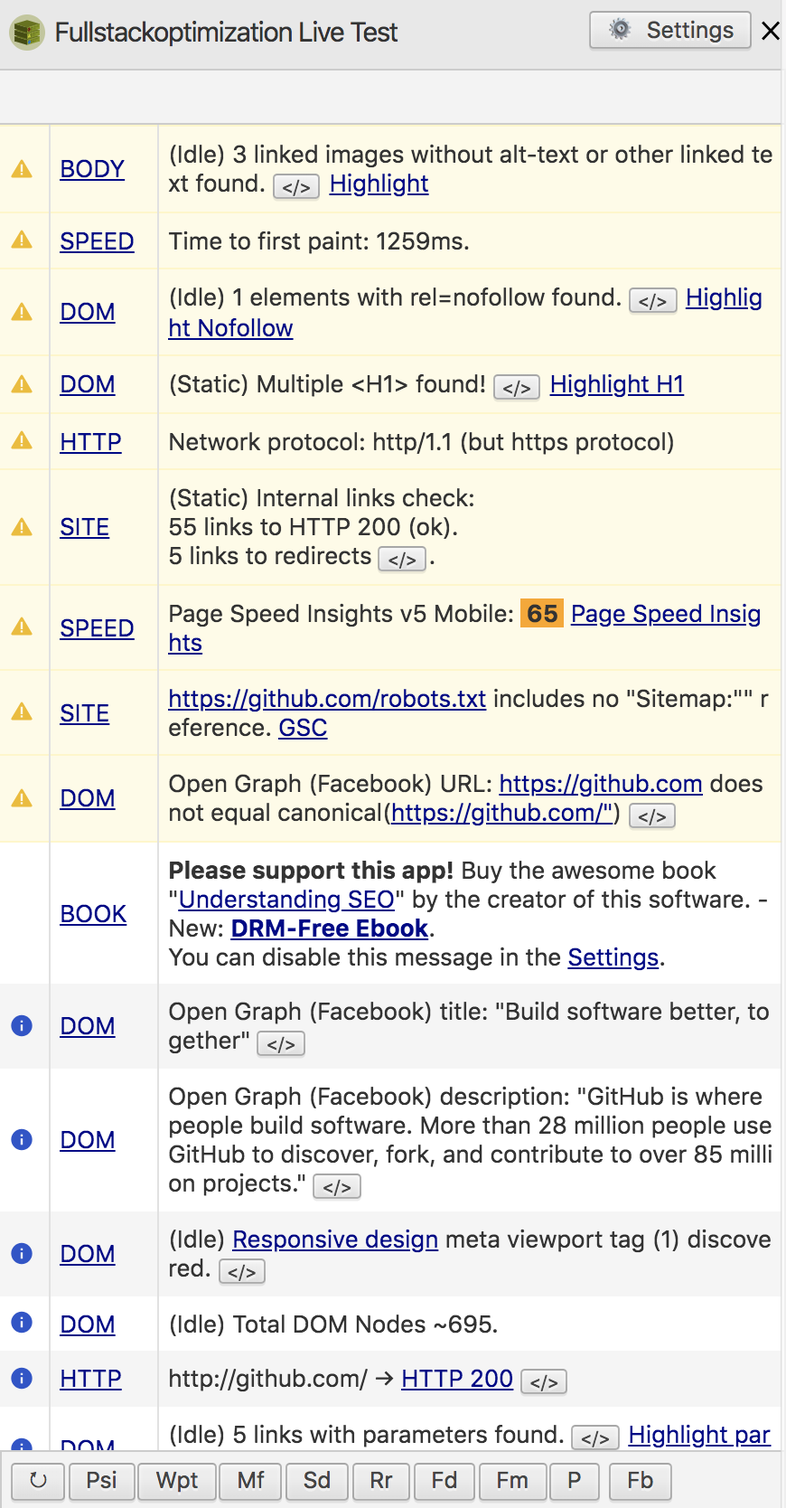
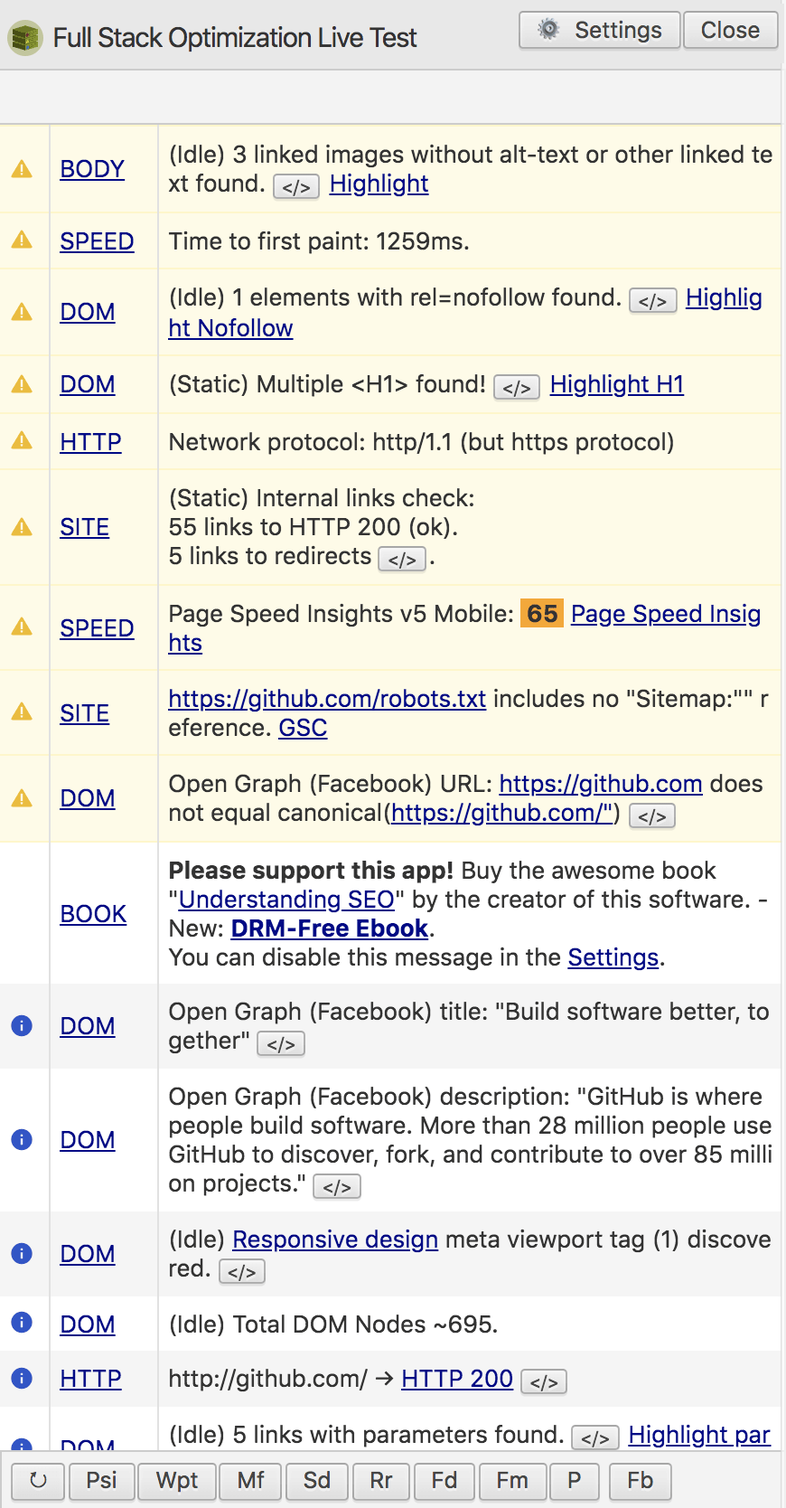
promo updates

Changed region(s): [[0.0, 0.0, 0.5276, 0.0312], [0.6828, 0.0, 0.9931, 0.0312]]

diff --git a/src/javascripts/components/Rules/Rules.js b/src/javascripts/components/Rules/Rules.js
@@ -126,10 +126,10 @@ export default class Rules extends Component {
         <header className="Header Section">
           <div className="Wrapper u-cf">
             <svg className="ic ic--rules u-floatLeft" viewBox="0 0 100 100"><clipPath id="a"><path d="m56.8 37 .9.4c-.3-.2-.7-.3-1.1-.3l-.9-.4c.4.1.8.2 1.1.3z"/></clipPath><clipPath id="b"><path d="m53.6 46.5-.9-.5c-1-.5-1.7-1.7-1.7-3.3 0-2.6 1.6-5.1 3.7-5.8.3-.1.6-.1.9-.1l.9.4c-.3 0-.6 0-.9.1-2.1.6-3.7 3.2-3.7 5.8 0 1.6.7 2.9 1.7 3.4z"/></clipPath><clipPath id="c"><path d="m57.3 71.5.9.3c-.2-.1-.5-.1-.8-.1l-.9-.3c.3 0 .6 0 .8.1z"/></clipPath><clipPath id="d"><path d="m56.2 75.1-.9-.3h.2l.9.3c-.1 0-.1 0-.2 0z"/></clipPath><clipPath id="e"><path d="m55.7 73.6.9.3c.1 0 .2.2.2.4 0 .3-.2.7-.5.8l-.9-.3c.3-.1.5-.4.5-.8.1-.2 0-.4-.2-.4z"/></clipPath><clipPath id="f"><path d="m56.1 75.1-.9-.3h.1z"/></clipPath><clipPath id="g"><path d="m54.5 81.2-.9-.3c-1.1-.4-1.9-1.6-1.8-3.3 0-2.6 1.7-5.2 3.7-6 .4-.1.8-.2 1.1-.2l.9.3c-.3 0-.7.1-1.1.2-2.1.8-3.7 3.5-3.7 6-.1 1.8.7 3 1.8 3.3z"/></clipPath><clipPath id="h"><path d="m56.2 62.1-.9-.3c.1-.2.1-.3.2-.4l.9.3c0 .1-.1.2-.2.4z"/></clipPath><clipPath id="i"><path d="m55.9 62.4-.9-.3c.1 0 .3-.2.4-.3l.9.3c-.2.1-.3.2-.4.3z"/></clipPath><clipPath id="j"><path d="m55.2 61 .9.3s.1 0 .1.1l-1-.4c.1.1.1 0 0 0z"/></clipPath><clipPath id="k"><path d="m55.7 62.4-.9-.3h.1l.9.3s0 0-.1 0z"/></clipPath><clipPath id="l"><path d="m55.6 62.4-.9-.3h.1l.9.3z"/></clipPath><clipPath id="m"><path d="m55.5 54.6.9.3h-.1c-.3 0-.6.2-.7.6l-.9-.3c.1-.3.5-.6.7-.6z"/></clipPath><clipPath id="n"><path d="m52.4 63.9-.9-.3c-.2-.1-.4-.4-.2-.8l.9.3c-.2.4 0 .7.2.8z"/></clipPath><circle cx="50" cy="50" fill="#c1c799" r="50"/><path d="m84.7 74.1-34.7 10.3v-13.7l34.7-10.3z" fill="#859900"/><path d="m50 84.4-34.7-10.3v-13.7l34.7 10.3z" fill="#434d00"/><path d="m50 70.7-34.7-10.3 34.7-10.4 34.7 10.4z" fill="#647300"/><path d="m84.7 56.9-34.7 10.3v-13.8l34.7-10.3z" fill="#859900"/><path d="m50 67.2-34.7-10.3v-13.8l34.7 10.3z" fill="#434d00"/><path d="m50 53.4-34.7-10.3 34.7-10.3 34.7 10.3z" fill="#647300"/><path d="m84.7 39.6-34.7 10.4v-13.8l34.7-10.3z" fill="#859900"/><path d="m50 50-34.7-10.4v-13.7l34.7 10.3z" fill="#434d00"/><path d="m50 36.2-34.7-10.3 34.7-10.3 34.7 10.3z" fill="#647300"/><g enable-background="new"><g fill="#4d0008"><path d="m56.7 44.1-.8-.4.9-1.5.9.4z"/><path d="m56.6 41.6-.9-.5 1.1-1.7.9.5z"/><path d="m57.7 42.6-.9-.4-1.1-1.1.9.5z"/><path d="m54.5 44.8-.8-.5 1.1-1.7.8.5z"/><path d="m57.7 39.9-.9-.5-.9-.9.8.5z"/></g><g clip-path="url(#a)" enable-background="new"><path d="m56.6 37.2-.9-.4h.4l.9.4c-.1 0-.3 0-.4 0" fill="#590009"/><path d="m57 37.2-.9-.4c.1 0 .3.1.4.1l.9.4c-.1 0-.3 0-.4-.1" fill="#5c0009"/><path d="m57.4 37.3-.9-.4c.1 0 .2.1.3.1l.9.4c-.1 0-.2 0-.3-.1" fill="#5f0009"/></g><path d="m55.6 40.7-.8-.5-1.1-1 .8.5z" fill="#4d0008"/><g clip-path="url(#b)" enable-background="new"><path d="m53.6 46.5-.9-.5c-1-.5-1.7-1.7-1.7-3.3 0-2.5 1.5-5 3.5-5.7l.9.4c-2 .7-3.5 3.2-3.5 5.7 0 1.6.7 2.9 1.7 3.4" fill="#500008"/><path d="m55.5 37.4-.9-.4c.1 0 .1 0 .2-.1.2 0 .3-.1.4-.1l.9.4c-.1 0-.3.1-.4.1-.1.1-.2.1-.2.1" fill="#530008"/><path d="m56.1 37.2-.9-.4h.5l.9.4c-.2 0-.3 0-.5 0" fill="#560008"/><path d="m56.6 37.2-.9-.4z" fill="#590009"/></g><path d="m56.6 37.2c1.6 0 2.7 1.4 2.7 3.6 0 2.6-1.6 5.1-3.7 5.8-.3.1-.6.1-.9.1-1.6 0-2.8-1.4-2.8-3.6 0-2.6 1.6-5.1 3.7-5.8.4 0 .7-.1 1-.1zm1.1 5.4-1.1-1 1.1-1.7-1-.9-1.1 1.7-1.1-1-1 1.5 1.1 1-1.1 1.7 1 .9 1.1-1.7 1.1 1z" fill="#85000d"/></g><g enable-background="new"><path d="m57.2 78.4-.9-.3-.1-.8.9.3z" fill="#004680"/><path d="m56.8 77.7-.9-.3v-1.7l.9.3z" fill="#004680"/><path d="m55.5 79.1-.9-.3 1.7-.7.9.3z" fill="#004985"/><path d="m56.8 76-.9-.3v-.8l.9.3z" fill="#004680"/><g clip-path="url(#c)" enable-background="new"><path d="m57.5 71.7-.9-.3h.4l.9.3c-.2 0-.3 0-.4 0" fill="#005194"/><path d="m57.9 71.7-.9-.3c.1 0 .2 0 .4.1l.9.3c-.2 0-.3-.1-.4-.1" fill="#005499"/></g><g clip-path="url(#d)" enable-background="new"><path d="m56.2 75.1-.9-.3z" fill="#005194"/><path d="m56.2 75.1-.9-.3h.1z" fill="#004e8f"/><path d="m56.3 75.1-.9-.3h.1z" fill="#004c8a"/><path d="m56.4 75.1-.9-.3z" fill="#004985"/></g><g clip-path="url(#e)" enable-background="new"><path d="m56.4 75.1-.9-.3z" fill="#004c8a"/><path d="m56.4 75.1-.9-.3c.3-.1.5-.4.5-.8 0-.2-.1-.4-.2-.4l.9.3c.1 0 .2.2.2.4-.1.3-.3.7-.5.8" fill="#004985"/></g><g clip-path="url(#f)" enable-background="new"><path d="m56.1 75.1-.9-.3z" fill="#005499"/><path d="m56.2 75.1-.9-.3h.1z" fill="#005194"/></g><path d="m55.5 76.5-.9-.3.4-.1.9.3z" fill="#004985"/><g clip-path="url(#g)" enable-background="new"><path d="m54.5 81.2-.9-.3c-1.1-.4-1.9-1.6-1.8-3.3 0-2.6 1.7-5.2 3.7-6l.9.3c-2.1.8-3.7 3.5-3.7 6-.1 1.8.7 3 1.8 3.3" fill="#004985"/><path d="m56.4 71.9-.9-.3c.2-.1.4-.1.6-.2l.9.3c-.2.1-.4.1-.6.2z" fill="#004c8a"/><path d="m57 71.7-.9-.3h.5l.9.3c-.2 0-.4 0-.5 0" fill="#004e8f"/><path d="m57.5 71.7-.9-.3z" fill="#005194"/></g><path d="m57.5 71.7c1.5 0 2.6 1.3 2.6 3.4 0 2.6-1.7 5.2-3.7 6-.4.1-.8.2-1.1.2-1.5 0-2.6-1.3-2.6-3.4 0-2.6 1.7-5.2 3.7-6 .4-.1.7-.2 1.1-.2zm-2 7.4 1.7-.6-.1-.8-.3.1v-1.7-.9l-1.2.5v.9l.3-.1v1.7l-.3.1zm.9-5.2c-.2.1-.4.4-.5.8 0 .3.1.4.3.4h.2c.3-.1.5-.4.5-.8 0-.3-.1-.4-.3-.4-.1-.1-.2-.1-.2 0" fill="#007bdf"/></g><g enable-background="new"><g clip-path="url(#h)" enable-background="new"><path d="m56.2 62.1-.9-.3c.1-.2.1-.3.2-.4l.9.3c0 .1-.1.2-.2.4" fill="#858500"/></g><path d="m56.4 61.7-.9-.3-.2-.3.9.3z" fill="#808000"/><g clip-path="url(#i)" enable-background="new"><path d="m55.9 62.4-.9-.3z" fill="#8a8a00"/><path d="m55.9 62.3-.9-.2c.1-.1.3-.2.3-.3l.9.3c-.1.1-.2.2-.3.2" fill="#858500"/></g><g clip-path="url(#j)" enable-background="new"><path d="m56.2 61.4-.9-.3s-.1 0-.1-.1l1 .4c0-.1 0 0 0 0" fill="#858500"/></g><g clip-path="url(#k)" enable-background="new"><path d="m55.7 62.4-.9-.3z" fill="#949400"/><path d="m55.7 62.4-.9-.3h.1z" fill="#8f8f00"/><path d="m55.8 62.4-.9-.3h.1z" fill="#8a8a00"/></g><g clip-path="url(#l)" enable-background="new"><path d="m55.6 62.4-.9-.3z" fill="#990"/><path d="m55.7 62.4-.9-.3h.1z" fill="#949400"/></g><path d="m55.6 61.2-.9-.3.7-.2.9.3z" fill="#868600"/><path d="m56.3 61-.9-.3.1-3.5.9.3z" fill="#808000"/><g clip-path="url(#m)" enable-background="new"><path d="m55.5 55.5-.9-.3c.1-.3.3-.5.5-.5l.9.3c-.2 0-.4.2-.5.5" fill="#858500"/><path d="m56.1 54.9-.9-.3h.1l.9.3c-.1 0-.1 0-.1 0" fill="#8a8a00"/><path d="m56.2 54.9-.9-.3h.1z" fill="#8f8f00"/><path d="m56.2 54.9-.9-.3h.1l.8.3c.1 0 .1 0 0 0z" fill="#949400"/><path d="m56.3 54.9-.9-.3h.1z" fill="#990"/></g><path d="m52.2 63-.9-.2 3.3-7.6.9.3z" fill="#808000"/><g clip-path="url(#n)" enable-background="new"><path d="m52.4 63.9-.9-.3c-.2-.1-.4-.4-.2-.8l.9.3c-.2.4 0 .7.2.8" fill="#858500"/></g><path d="m59.5 60.6c.3.3 0 .9-.5 1.1l-6.2 2.2c-.1 0-.1 0-.2 0-.3 0-.5-.4-.4-.9l3.3-7.6c.1-.3.5-.6.7-.6.1 0 .2.1.3.2zm-3.2.4.2-3.4-.8.3v3.4zm-.1 1.1c.1-.2.1-.3.2-.4l-.1-.3s-.1-.1-.2-.1h-.1c-.1.1-.3.2-.4.3s-.1.2-.2.4l.1.3s.1.1.2.1h.1c.2-.1.3-.2.4-.3" fill="#dfdf00"/></g><g enable-background="new" opacity=".6"><path d="m73.6 54.6v3.3l-11.9 3.7v-3.3z" fill="#748500"/><path d="m61.7 61.6-.6-.3v-3.3l.6.3z" fill="#434d00"/><path d="m61.7 58.3-.6-.3 11.9-3.7.6.3z" fill="#465100"/></g><g enable-background="new" opacity=".6"><path d="m81.7 47.4v3.3l-20 6.3v-3.3z" fill="#748500"/><path d="m61.7 57-.6-.3v-3.3l.6.3z" fill="#434d00"/><path d="m61.7 53.7-.6-.3 20-6.3.6.3z" fill="#465100"/></g><g enable-background="new" opacity=".6"><path d="m73.6 38v3.3l-11.9 3.7v-3.3z" fill="#748500"/><path d="m61.7 45-.6-.3v-3.3l.6.3z" fill="#434d00"/><path d="m61.7 41.7-.6-.3 11.9-3.7.6.3z" fill="#465100"/></g><g enable-background="new" opacity=".6"><path d="m81.7 30.8v3.3l-20 6.3v-3.3z" fill="#748500"/><path d="m61.7 40.4-.6-.3v-3.3l.6.3z" fill="#434d00"/><path d="m61.7 37.1-.6-.3 20-6.3.6.3z" fill="#465100"/></g><g enable-background="new" opacity=".6"><path d="m73.6 71.7v3.3l-11.9 3.7v-3.3z" fill="#748500"/><path d="m61.7 78.7-.6-.3v-3.3l.6.3z" fill="#434d00"/><path d="m61.7 75.4-.6-.3 11.9-3.7.6.3z" fill="#465100"/></g><g enable-background="new" opacity=".6"><path d="m81.7 64.5v3.3l-20 6.3v-3.3z" fill="#748500"/><path d="m61.7 74.1-.6-.3v-3.3l.6.3z" fill="#434d00"/><path d="m61.7 70.8-.6-.3 20-6.3.6.3z" fill="#465100"/></g></svg>
-            <h1 className="u-floatLeft">Manage Rules</h1>
+            <h1 className="u-floatLeft">Full Stack Optimization Live Test</h1>
             <span className="Header-brandLink u-floatRight">
               by <svg className="ic" xmlns="http://www.w3.org/2000/svg" viewBox="0 0 24 24" height="24"><path fill="#6E772F" d="M11.7 17.2L2 15l10.2-2.4L22 15" /><path fill="#4F5429" d="M11.7 21.7L2 19.5V15l9.7 2.2" /><path fill="#8E9A34" d="M22 19.5l-10.3 2.2v-4.5L22 15" /><g><path fill="#6E772F" d="M11.7 12L2 9.7l10.2-2.3L22 9.8" /><path fill="#4F5429" d="M11.7 16.5L2 14.2V9.7l9.7 2.3" /><path fill="#8E9A34" d="M22 14.3l-10.3 2.2V12L22 9.8" /></g><g><path fill="#6E772F" d="M11.7 6.9L2 4.6l10.2-2.3L22 4.7" /><path fill="#4F5429" d="M11.7 11.4L2 9.1V4.6l9.7 2.3" /><path fill="#8E9A34" d="M22 9.2l-10.3 2.2V6.9L22 4.7" /></g></svg>
-              <a href="http://www.fullstackoptimization.com/" target="_blank">fullstackoptimization</a> - <a href="https://docs.google.com/document/d/1UktjtxNe71vPKvw_D4xELX2RMJAXXI4-hrMC7Pinb6U/edit#" target="_blank" >User Doku</a> - <a href="https://github.com/franzenzenhofer/f19n-obtrusive-livetest" target="_blank">Developer Doku</a></span>
+              <a href="http://www.fullstackoptimization.com/" target="_blank">fullstackoptimization.com</a> - <a href="https://docs.google.com/document/d/1UktjtxNe71vPKvw_D4xELX2RMJAXXI4-hrMC7Pinb6U/edit#" target="_blank" >User Doku</a> - <a href="https://github.com/franzenzenhofer/f19n-obtrusive-livetest" target="_blank">Developer Doku</a></span>
           </div>
         </header>
 
@@ -137,6 +137,7 @@ export default class Rules extends Component {
 
         <div className="Wrapper">
           <div className="Section rules">
+            <h1>Manage Rules</h1>
             <h2>Custom rules</h2>
             <AddRule onAddRule={this.addRule} />
             <RulesList rules={customRules} onViewClick={this.viewRule} onStatusClick={this.toggleRuleStatus} onDeleteClick={this.removeRule} />

diff --git a/src/javascripts/components/Panel/ResultList.jsx b/src/javascripts/components/Panel/ResultList.jsx
@@ -65,7 +65,7 @@ export default class ResultList extends Component {
         <div className="Header">
           <div className="Header-brand u-cf">
             <svg className="ic ic--panelHead u-floatLeft" viewBox="0 0 100 100"><clipPath id="a"><path d="m56.8 37 .9.4c-.3-.2-.7-.3-1.1-.3l-.9-.4c.4.1.8.2 1.1.3z"/></clipPath><clipPath id="b"><path d="m53.6 46.5-.9-.5c-1-.5-1.7-1.7-1.7-3.3 0-2.6 1.6-5.1 3.7-5.8.3-.1.6-.1.9-.1l.9.4c-.3 0-.6 0-.9.1-2.1.6-3.7 3.2-3.7 5.8 0 1.6.7 2.9 1.7 3.4z"/></clipPath><clipPath id="c"><path d="m57.3 71.5.9.3c-.2-.1-.5-.1-.8-.1l-.9-.3c.3 0 .6 0 .8.1z"/></clipPath><clipPath id="d"><path d="m56.2 75.1-.9-.3h.2l.9.3c-.1 0-.1 0-.2 0z"/></clipPath><clipPath id="e"><path d="m55.7 73.6.9.3c.1 0 .2.2.2.4 0 .3-.2.7-.5.8l-.9-.3c.3-.1.5-.4.5-.8.1-.2 0-.4-.2-.4z"/></clipPath><clipPath id="f"><path d="m56.1 75.1-.9-.3h.1z"/></clipPath><clipPath id="g"><path d="m54.5 81.2-.9-.3c-1.1-.4-1.9-1.6-1.8-3.3 0-2.6 1.7-5.2 3.7-6 .4-.1.8-.2 1.1-.2l.9.3c-.3 0-.7.1-1.1.2-2.1.8-3.7 3.5-3.7 6-.1 1.8.7 3 1.8 3.3z"/></clipPath><clipPath id="h"><path d="m56.2 62.1-.9-.3c.1-.2.1-.3.2-.4l.9.3c0 .1-.1.2-.2.4z"/></clipPath><clipPath id="i"><path d="m55.9 62.4-.9-.3c.1 0 .3-.2.4-.3l.9.3c-.2.1-.3.2-.4.3z"/></clipPath><clipPath id="j"><path d="m55.2 61 .9.3s.1 0 .1.1l-1-.4c.1.1.1 0 0 0z"/></clipPath><clipPath id="k"><path d="m55.7 62.4-.9-.3h.1l.9.3s0 0-.1 0z"/></clipPath><clipPath id="l"><path d="m55.6 62.4-.9-.3h.1l.9.3z"/></clipPath><clipPath id="m"><path d="m55.5 54.6.9.3h-.1c-.3 0-.6.2-.7.6l-.9-.3c.1-.3.5-.6.7-.6z"/></clipPath><clipPath id="n"><path d="m52.4 63.9-.9-.3c-.2-.1-.4-.4-.2-.8l.9.3c-.2.4 0 .7.2.8z"/></clipPath><circle cx="50" cy="50" fill="#c1c799" r="50"/><path d="m84.7 74.1-34.7 10.3v-13.7l34.7-10.3z" fill="#859900"/><path d="m50 84.4-34.7-10.3v-13.7l34.7 10.3z" fill="#434d00"/><path d="m50 70.7-34.7-10.3 34.7-10.4 34.7 10.4z" fill="#647300"/><path d="m84.7 56.9-34.7 10.3v-13.8l34.7-10.3z" fill="#859900"/><path d="m50 67.2-34.7-10.3v-13.8l34.7 10.3z" fill="#434d00"/><path d="m50 53.4-34.7-10.3 34.7-10.3 34.7 10.3z" fill="#647300"/><path d="m84.7 39.6-34.7 10.4v-13.8l34.7-10.3z" fill="#859900"/><path d="m50 50-34.7-10.4v-13.7l34.7 10.3z" fill="#434d00"/><path d="m50 36.2-34.7-10.3 34.7-10.3 34.7 10.3z" fill="#647300"/><g enable-background="new"><g fill="#4d0008"><path d="m56.7 44.1-.8-.4.9-1.5.9.4z"/><path d="m56.6 41.6-.9-.5 1.1-1.7.9.5z"/><path d="m57.7 42.6-.9-.4-1.1-1.1.9.5z"/><path d="m54.5 44.8-.8-.5 1.1-1.7.8.5z"/><path d="m57.7 39.9-.9-.5-.9-.9.8.5z"/></g><g clip-path="url(#a)" enable-background="new"><path d="m56.6 37.2-.9-.4h.4l.9.4c-.1 0-.3 0-.4 0" fill="#590009"/><path d="m57 37.2-.9-.4c.1 0 .3.1.4.1l.9.4c-.1 0-.3 0-.4-.1" fill="#5c0009"/><path d="m57.4 37.3-.9-.4c.1 0 .2.1.3.1l.9.4c-.1 0-.2 0-.3-.1" fill="#5f0009"/></g><path d="m55.6 40.7-.8-.5-1.1-1 .8.5z" fill="#4d0008"/><g clip-path="url(#b)" enable-background="new"><path d="m53.6 46.5-.9-.5c-1-.5-1.7-1.7-1.7-3.3 0-2.5 1.5-5 3.5-5.7l.9.4c-2 .7-3.5 3.2-3.5 5.7 0 1.6.7 2.9 1.7 3.4" fill="#500008"/><path d="m55.5 37.4-.9-.4c.1 0 .1 0 .2-.1.2 0 .3-.1.4-.1l.9.4c-.1 0-.3.1-.4.1-.1.1-.2.1-.2.1" fill="#530008"/><path d="m56.1 37.2-.9-.4h.5l.9.4c-.2 0-.3 0-.5 0" fill="#560008"/><path d="m56.6 37.2-.9-.4z" fill="#590009"/></g><path d="m56.6 37.2c1.6 0 2.7 1.4 2.7 3.6 0 2.6-1.6 5.1-3.7 5.8-.3.1-.6.1-.9.1-1.6 0-2.8-1.4-2.8-3.6 0-2.6 1.6-5.1 3.7-5.8.4 0 .7-.1 1-.1zm1.1 5.4-1.1-1 1.1-1.7-1-.9-1.1 1.7-1.1-1-1 1.5 1.1 1-1.1 1.7 1 .9 1.1-1.7 1.1 1z" fill="#85000d"/></g><g enable-background="new"><path d="m57.2 78.4-.9-.3-.1-.8.9.3z" fill="#004680"/><path d="m56.8 77.7-.9-.3v-1.7l.9.3z" fill="#004680"/><path d="m55.5 79.1-.9-.3 1.7-.7.9.3z" fill="#004985"/><path d="m56.8 76-.9-.3v-.8l.9.3z" fill="#004680"/><g clip-path="url(#c)" enable-background="new"><path d="m57.5 71.7-.9-.3h.4l.9.3c-.2 0-.3 0-.4 0" fill="#005194"/><path d="m57.9 71.7-.9-.3c.1 0 .2 0 .4.1l.9.3c-.2 0-.3-.1-.4-.1" fill="#005499"/></g><g clip-path="url(#d)" enable-background="new"><path d="m56.2 75.1-.9-.3z" fill="#005194"/><path d="m56.2 75.1-.9-.3h.1z" fill="#004e8f"/><path d="m56.3 75.1-.9-.3h.1z" fill="#004c8a"/><path d="m56.4 75.1-.9-.3z" fill="#004985"/></g><g clip-path="url(#e)" enable-background="new"><path d="m56.4 75.1-.9-.3z" fill="#004c8a"/><path d="m56.4 75.1-.9-.3c.3-.1.5-.4.5-.8 0-.2-.1-.4-.2-.4l.9.3c.1 0 .2.2.2.4-.1.3-.3.7-.5.8" fill="#004985"/></g><g clip-path="url(#f)" enable-background="new"><path d="m56.1 75.1-.9-.3z" fill="#005499"/><path d="m56.2 75.1-.9-.3h.1z" fill="#005194"/></g><path d="m55.5 76.5-.9-.3.4-.1.9.3z" fill="#004985"/><g clip-path="url(#g)" enable-background="new"><path d="m54.5 81.2-.9-.3c-1.1-.4-1.9-1.6-1.8-3.3 0-2.6 1.7-5.2 3.7-6l.9.3c-2.1.8-3.7 3.5-3.7 6-.1 1.8.7 3 1.8 3.3" fill="#004985"/><path d="m56.4 71.9-.9-.3c.2-.1.4-.1.6-.2l.9.3c-.2.1-.4.1-.6.2z" fill="#004c8a"/><path d="m57 71.7-.9-.3h.5l.9.3c-.2 0-.4 0-.5 0" fill="#004e8f"/><path d="m57.5 71.7-.9-.3z" fill="#005194"/></g><path d="m57.5 71.7c1.5 0 2.6 1.3 2.6 3.4 0 2.6-1.7 5.2-3.7 6-.4.1-.8.2-1.1.2-1.5 0-2.6-1.3-2.6-3.4 0-2.6 1.7-5.2 3.7-6 .4-.1.7-.2 1.1-.2zm-2 7.4 1.7-.6-.1-.8-.3.1v-1.7-.9l-1.2.5v.9l.3-.1v1.7l-.3.1zm.9-5.2c-.2.1-.4.4-.5.8 0 .3.1.4.3.4h.2c.3-.1.5-.4.5-.8 0-.3-.1-.4-.3-.4-.1-.1-.2-.1-.2 0" fill="#007bdf"/></g><g enable-background="new"><g clip-path="url(#h)" enable-background="new"><path d="m56.2 62.1-.9-.3c.1-.2.1-.3.2-.4l.9.3c0 .1-.1.2-.2.4" fill="#858500"/></g><path d="m56.4 61.7-.9-.3-.2-.3.9.3z" fill="#808000"/><g clip-path="url(#i)" enable-background="new"><path d="m55.9 62.4-.9-.3z" fill="#8a8a00"/><path d="m55.9 62.3-.9-.2c.1-.1.3-.2.3-.3l.9.3c-.1.1-.2.2-.3.2" fill="#858500"/></g><g clip-path="url(#j)" enable-background="new"><path d="m56.2 61.4-.9-.3s-.1 0-.1-.1l1 .4c0-.1 0 0 0 0" fill="#858500"/></g><g clip-path="url(#k)" enable-background="new"><path d="m55.7 62.4-.9-.3z" fill="#949400"/><path d="m55.7 62.4-.9-.3h.1z" fill="#8f8f00"/><path d="m55.8 62.4-.9-.3h.1z" fill="#8a8a00"/></g><g clip-path="url(#l)" enable-background="new"><path d="m55.6 62.4-.9-.3z" fill="#990"/><path d="m55.7 62.4-.9-.3h.1z" fill="#949400"/></g><path d="m55.6 61.2-.9-.3.7-.2.9.3z" fill="#868600"/><path d="m56.3 61-.9-.3.1-3.5.9.3z" fill="#808000"/><g clip-path="url(#m)" enable-background="new"><path d="m55.5 55.5-.9-.3c.1-.3.3-.5.5-.5l.9.3c-.2 0-.4.2-.5.5" fill="#858500"/><path d="m56.1 54.9-.9-.3h.1l.9.3c-.1 0-.1 0-.1 0" fill="#8a8a00"/><path d="m56.2 54.9-.9-.3h.1z" fill="#8f8f00"/><path d="m56.2 54.9-.9-.3h.1l.8.3c.1 0 .1 0 0 0z" fill="#949400"/><path d="m56.3 54.9-.9-.3h.1z" fill="#990"/></g><path d="m52.2 63-.9-.2 3.3-7.6.9.3z" fill="#808000"/><g clip-path="url(#n)" enable-background="new"><path d="m52.4 63.9-.9-.3c-.2-.1-.4-.4-.2-.8l.9.3c-.2.4 0 .7.2.8" fill="#858500"/></g><path d="m59.5 60.6c.3.3 0 .9-.5 1.1l-6.2 2.2c-.1 0-.1 0-.2 0-.3 0-.5-.4-.4-.9l3.3-7.6c.1-.3.5-.6.7-.6.1 0 .2.1.3.2zm-3.2.4.2-3.4-.8.3v3.4zm-.1 1.1c.1-.2.1-.3.2-.4l-.1-.3s-.1-.1-.2-.1h-.1c-.1.1-.3.2-.4.3s-.1.2-.2.4l.1.3s.1.1.2.1h.1c.2-.1.3-.2.4-.3" fill="#dfdf00"/></g><g enable-background="new" opacity=".6"><path d="m73.6 54.6v3.3l-11.9 3.7v-3.3z" fill="#748500"/><path d="m61.7 61.6-.6-.3v-3.3l.6.3z" fill="#434d00"/><path d="m61.7 58.3-.6-.3 11.9-3.7.6.3z" fill="#465100"/></g><g enable-background="new" opacity=".6"><path d="m81.7 47.4v3.3l-20 6.3v-3.3z" fill="#748500"/><path d="m61.7 57-.6-.3v-3.3l.6.3z" fill="#434d00"/><path d="m61.7 53.7-.6-.3 20-6.3.6.3z" fill="#465100"/></g><g enable-background="new" opacity=".6"><path d="m73.6 38v3.3l-11.9 3.7v-3.3z" fill="#748500"/><path d="m61.7 45-.6-.3v-3.3l.6.3z" fill="#434d00"/><path d="m61.7 41.7-.6-.3 11.9-3.7.6.3z" fill="#465100"/></g><g enable-background="new" opacity=".6"><path d="m81.7 30.8v3.3l-20 6.3v-3.3z" fill="#748500"/><path d="m61.7 40.4-.6-.3v-3.3l.6.3z" fill="#434d00"/><path d="m61.7 37.1-.6-.3 20-6.3.6.3z" fill="#465100"/></g><g enable-background="new" opacity=".6"><path d="m73.6 71.7v3.3l-11.9 3.7v-3.3z" fill="#748500"/><path d="m61.7 78.7-.6-.3v-3.3l.6.3z" fill="#434d00"/><path d="m61.7 75.4-.6-.3 11.9-3.7.6.3z" fill="#465100"/></g><g enable-background="new" opacity=".6"><path d="m81.7 64.5v3.3l-20 6.3v-3.3z" fill="#748500"/><path d="m61.7 74.1-.6-.3v-3.3l.6.3z" fill="#434d00"/><path d="m61.7 70.8-.6-.3 20-6.3.6.3z" fill="#465100"/></g></svg>
-            <h2 className="u-floatLeft">Fullstackoptimization Live Test</h2>
+            <h2 className="u-floatLeft">Full Stack Optimization Live Test</h2>
               <span className="u-floatRight" ><a  target="_blank"  href={chrome.extension.getURL('rules.html')}>
                 <button className="Button Button--haptic u-floatLeft">&#9881; Settings</button>
               </a>

diff --git a/src/javascripts/components/Popup/Popup.jsx b/src/javascripts/components/Popup/Popup.jsx
@@ -25,7 +25,7 @@ export default function Popup({ location, disabled, hidden, onToggleSite, onTogg
     <div>
       <header>
         <svg className="logo" viewBox="0 0 100 100"><clipPath id="a"><path d="m56.8 37 .9.4c-.3-.2-.7-.3-1.1-.3l-.9-.4c.4.1.8.2 1.1.3z"/></clipPath><clipPath id="b"><path d="m53.6 46.5-.9-.5c-1-.5-1.7-1.7-1.7-3.3 0-2.6 1.6-5.1 3.7-5.8.3-.1.6-.1.9-.1l.9.4c-.3 0-.6 0-.9.1-2.1.6-3.7 3.2-3.7 5.8 0 1.6.7 2.9 1.7 3.4z"/></clipPath><clipPath id="c"><path d="m57.3 71.5.9.3c-.2-.1-.5-.1-.8-.1l-.9-.3c.3 0 .6 0 .8.1z"/></clipPath><clipPath id="d"><path d="m56.2 75.1-.9-.3h.2l.9.3c-.1 0-.1 0-.2 0z"/></clipPath><clipPath id="e"><path d="m55.7 73.6.9.3c.1 0 .2.2.2.4 0 .3-.2.7-.5.8l-.9-.3c.3-.1.5-.4.5-.8.1-.2 0-.4-.2-.4z"/></clipPath><clipPath id="f"><path d="m56.1 75.1-.9-.3h.1z"/></clipPath><clipPath id="g"><path d="m54.5 81.2-.9-.3c-1.1-.4-1.9-1.6-1.8-3.3 0-2.6 1.7-5.2 3.7-6 .4-.1.8-.2 1.1-.2l.9.3c-.3 0-.7.1-1.1.2-2.1.8-3.7 3.5-3.7 6-.1 1.8.7 3 1.8 3.3z"/></clipPath><clipPath id="h"><path d="m56.2 62.1-.9-.3c.1-.2.1-.3.2-.4l.9.3c0 .1-.1.2-.2.4z"/></clipPath><clipPath id="i"><path d="m55.9 62.4-.9-.3c.1 0 .3-.2.4-.3l.9.3c-.2.1-.3.2-.4.3z"/></clipPath><clipPath id="j"><path d="m55.2 61 .9.3s.1 0 .1.1l-1-.4c.1.1.1 0 0 0z"/></clipPath><clipPath id="k"><path d="m55.7 62.4-.9-.3h.1l.9.3s0 0-.1 0z"/></clipPath><clipPath id="l"><path d="m55.6 62.4-.9-.3h.1l.9.3z"/></clipPath><clipPath id="m"><path d="m55.5 54.6.9.3h-.1c-.3 0-.6.2-.7.6l-.9-.3c.1-.3.5-.6.7-.6z"/></clipPath><clipPath id="n"><path d="m52.4 63.9-.9-.3c-.2-.1-.4-.4-.2-.8l.9.3c-.2.4 0 .7.2.8z"/></clipPath><circle cx="50" cy="50" fill="#c1c799" r="50"/><path d="m84.7 74.1-34.7 10.3v-13.7l34.7-10.3z" fill="#859900"/><path d="m50 84.4-34.7-10.3v-13.7l34.7 10.3z" fill="#434d00"/><path d="m50 70.7-34.7-10.3 34.7-10.4 34.7 10.4z" fill="#647300"/><path d="m84.7 56.9-34.7 10.3v-13.8l34.7-10.3z" fill="#859900"/><path d="m50 67.2-34.7-10.3v-13.8l34.7 10.3z" fill="#434d00"/><path d="m50 53.4-34.7-10.3 34.7-10.3 34.7 10.3z" fill="#647300"/><path d="m84.7 39.6-34.7 10.4v-13.8l34.7-10.3z" fill="#859900"/><path d="m50 50-34.7-10.4v-13.7l34.7 10.3z" fill="#434d00"/><path d="m50 36.2-34.7-10.3 34.7-10.3 34.7 10.3z" fill="#647300"/><g enable-background="new"><g fill="#4d0008"><path d="m56.7 44.1-.8-.4.9-1.5.9.4z"/><path d="m56.6 41.6-.9-.5 1.1-1.7.9.5z"/><path d="m57.7 42.6-.9-.4-1.1-1.1.9.5z"/><path d="m54.5 44.8-.8-.5 1.1-1.7.8.5z"/><path d="m57.7 39.9-.9-.5-.9-.9.8.5z"/></g><g clip-path="url(#a)" enable-background="new"><path d="m56.6 37.2-.9-.4h.4l.9.4c-.1 0-.3 0-.4 0" fill="#590009"/><path d="m57 37.2-.9-.4c.1 0 .3.1.4.1l.9.4c-.1 0-.3 0-.4-.1" fill="#5c0009"/><path d="m57.4 37.3-.9-.4c.1 0 .2.1.3.1l.9.4c-.1 0-.2 0-.3-.1" fill="#5f0009"/></g><path d="m55.6 40.7-.8-.5-1.1-1 .8.5z" fill="#4d0008"/><g clip-path="url(#b)" enable-background="new"><path d="m53.6 46.5-.9-.5c-1-.5-1.7-1.7-1.7-3.3 0-2.5 1.5-5 3.5-5.7l.9.4c-2 .7-3.5 3.2-3.5 5.7 0 1.6.7 2.9 1.7 3.4" fill="#500008"/><path d="m55.5 37.4-.9-.4c.1 0 .1 0 .2-.1.2 0 .3-.1.4-.1l.9.4c-.1 0-.3.1-.4.1-.1.1-.2.1-.2.1" fill="#530008"/><path d="m56.1 37.2-.9-.4h.5l.9.4c-.2 0-.3 0-.5 0" fill="#560008"/><path d="m56.6 37.2-.9-.4z" fill="#590009"/></g><path d="m56.6 37.2c1.6 0 2.7 1.4 2.7 3.6 0 2.6-1.6 5.1-3.7 5.8-.3.1-.6.1-.9.1-1.6 0-2.8-1.4-2.8-3.6 0-2.6 1.6-5.1 3.7-5.8.4 0 .7-.1 1-.1zm1.1 5.4-1.1-1 1.1-1.7-1-.9-1.1 1.7-1.1-1-1 1.5 1.1 1-1.1 1.7 1 .9 1.1-1.7 1.1 1z" fill="#85000d"/></g><g enable-background="new"><path d="m57.2 78.4-.9-.3-.1-.8.9.3z" fill="#004680"/><path d="m56.8 77.7-.9-.3v-1.7l.9.3z" fill="#004680"/><path d="m55.5 79.1-.9-.3 1.7-.7.9.3z" fill="#004985"/><path d="m56.8 76-.9-.3v-.8l.9.3z" fill="#004680"/><g clip-path="url(#c)" enable-background="new"><path d="m57.5 71.7-.9-.3h.4l.9.3c-.2 0-.3 0-.4 0" fill="#005194"/><path d="m57.9 71.7-.9-.3c.1 0 .2 0 .4.1l.9.3c-.2 0-.3-.1-.4-.1" fill="#005499"/></g><g clip-path="url(#d)" enable-background="new"><path d="m56.2 75.1-.9-.3z" fill="#005194"/><path d="m56.2 75.1-.9-.3h.1z" fill="#004e8f"/><path d="m56.3 75.1-.9-.3h.1z" fill="#004c8a"/><path d="m56.4 75.1-.9-.3z" fill="#004985"/></g><g clip-path="url(#e)" enable-background="new"><path d="m56.4 75.1-.9-.3z" fill="#004c8a"/><path d="m56.4 75.1-.9-.3c.3-.1.5-.4.5-.8 0-.2-.1-.4-.2-.4l.9.3c.1 0 .2.2.2.4-.1.3-.3.7-.5.8" fill="#004985"/></g><g clip-path="url(#f)" enable-background="new"><path d="m56.1 75.1-.9-.3z" fill="#005499"/><path d="m56.2 75.1-.9-.3h.1z" fill="#005194"/></g><path d="m55.5 76.5-.9-.3.4-.1.9.3z" fill="#004985"/><g clip-path="url(#g)" enable-background="new"><path d="m54.5 81.2-.9-.3c-1.1-.4-1.9-1.6-1.8-3.3 0-2.6 1.7-5.2 3.7-6l.9.3c-2.1.8-3.7 3.5-3.7 6-.1 1.8.7 3 1.8 3.3" fill="#004985"/><path d="m56.4 71.9-.9-.3c.2-.1.4-.1.6-.2l.9.3c-.2.1-.4.1-.6.2z" fill="#004c8a"/><path d="m57 71.7-.9-.3h.5l.9.3c-.2 0-.4 0-.5 0" fill="#004e8f"/><path d="m57.5 71.7-.9-.3z" fill="#005194"/></g><path d="m57.5 71.7c1.5 0 2.6 1.3 2.6 3.4 0 2.6-1.7 5.2-3.7 6-.4.1-.8.2-1.1.2-1.5 0-2.6-1.3-2.6-3.4 0-2.6 1.7-5.2 3.7-6 .4-.1.7-.2 1.1-.2zm-2 7.4 1.7-.6-.1-.8-.3.1v-1.7-.9l-1.2.5v.9l.3-.1v1.7l-.3.1zm.9-5.2c-.2.1-.4.4-.5.8 0 .3.1.4.3.4h.2c.3-.1.5-.4.5-.8 0-.3-.1-.4-.3-.4-.1-.1-.2-.1-.2 0" fill="#007bdf"/></g><g enable-background="new"><g clip-path="url(#h)" enable-background="new"><path d="m56.2 62.1-.9-.3c.1-.2.1-.3.2-.4l.9.3c0 .1-.1.2-.2.4" fill="#858500"/></g><path d="m56.4 61.7-.9-.3-.2-.3.9.3z" fill="#808000"/><g clip-path="url(#i)" enable-background="new"><path d="m55.9 62.4-.9-.3z" fill="#8a8a00"/><path d="m55.9 62.3-.9-.2c.1-.1.3-.2.3-.3l.9.3c-.1.1-.2.2-.3.2" fill="#858500"/></g><g clip-path="url(#j)" enable-background="new"><path d="m56.2 61.4-.9-.3s-.1 0-.1-.1l1 .4c0-.1 0 0 0 0" fill="#858500"/></g><g clip-path="url(#k)" enable-background="new"><path d="m55.7 62.4-.9-.3z" fill="#949400"/><path d="m55.7 62.4-.9-.3h.1z" fill="#8f8f00"/><path d="m55.8 62.4-.9-.3h.1z" fill="#8a8a00"/></g><g clip-path="url(#l)" enable-background="new"><path d="m55.6 62.4-.9-.3z" fill="#990"/><path d="m55.7 62.4-.9-.3h.1z" fill="#949400"/></g><path d="m55.6 61.2-.9-.3.7-.2.9.3z" fill="#868600"/><path d="m56.3 61-.9-.3.1-3.5.9.3z" fill="#808000"/><g clip-path="url(#m)" enable-background="new"><path d="m55.5 55.5-.9-.3c.1-.3.3-.5.5-.5l.9.3c-.2 0-.4.2-.5.5" fill="#858500"/><path d="m56.1 54.9-.9-.3h.1l.9.3c-.1 0-.1 0-.1 0" fill="#8a8a00"/><path d="m56.2 54.9-.9-.3h.1z" fill="#8f8f00"/><path d="m56.2 54.9-.9-.3h.1l.8.3c.1 0 .1 0 0 0z" fill="#949400"/><path d="m56.3 54.9-.9-.3h.1z" fill="#990"/></g><path d="m52.2 63-.9-.2 3.3-7.6.9.3z" fill="#808000"/><g clip-path="url(#n)" enable-background="new"><path d="m52.4 63.9-.9-.3c-.2-.1-.4-.4-.2-.8l.9.3c-.2.4 0 .7.2.8" fill="#858500"/></g><path d="m59.5 60.6c.3.3 0 .9-.5 1.1l-6.2 2.2c-.1 0-.1 0-.2 0-.3 0-.5-.4-.4-.9l3.3-7.6c.1-.3.5-.6.7-.6.1 0 .2.1.3.2zm-3.2.4.2-3.4-.8.3v3.4zm-.1 1.1c.1-.2.1-.3.2-.4l-.1-.3s-.1-.1-.2-.1h-.1c-.1.1-.3.2-.4.3s-.1.2-.2.4l.1.3s.1.1.2.1h.1c.2-.1.3-.2.4-.3" fill="#dfdf00"/></g><g enable-background="new" opacity=".6"><path d="m73.6 54.6v3.3l-11.9 3.7v-3.3z" fill="#748500"/><path d="m61.7 61.6-.6-.3v-3.3l.6.3z" fill="#434d00"/><path d="m61.7 58.3-.6-.3 11.9-3.7.6.3z" fill="#465100"/></g><g enable-background="new" opacity=".6"><path d="m81.7 47.4v3.3l-20 6.3v-3.3z" fill="#748500"/><path d="m61.7 57-.6-.3v-3.3l.6.3z" fill="#434d00"/><path d="m61.7 53.7-.6-.3 20-6.3.6.3z" fill="#465100"/></g><g enable-background="new" opacity=".6"><path d="m73.6 38v3.3l-11.9 3.7v-3.3z" fill="#748500"/><path d="m61.7 45-.6-.3v-3.3l.6.3z" fill="#434d00"/><path d="m61.7 41.7-.6-.3 11.9-3.7.6.3z" fill="#465100"/></g><g enable-background="new" opacity=".6"><path d="m81.7 30.8v3.3l-20 6.3v-3.3z" fill="#748500"/><path d="m61.7 40.4-.6-.3v-3.3l.6.3z" fill="#434d00"/><path d="m61.7 37.1-.6-.3 20-6.3.6.3z" fill="#465100"/></g><g enable-background="new" opacity=".6"><path d="m73.6 71.7v3.3l-11.9 3.7v-3.3z" fill="#748500"/><path d="m61.7 78.7-.6-.3v-3.3l.6.3z" fill="#434d00"/><path d="m61.7 75.4-.6-.3 11.9-3.7.6.3z" fill="#465100"/></g><g enable-background="new" opacity=".6"><path d="m81.7 64.5v3.3l-20 6.3v-3.3z" fill="#748500"/><path d="m61.7 74.1-.6-.3v-3.3l.6.3z" fill="#434d00"/><path d="m61.7 70.8-.6-.3 20-6.3.6.3z" fill="#465100"/></g></svg>
-        <h1><a href="http://www.fullstackoptimization.com/" target="_blank">Fullstackoptimization</a> Live Test</h1>
+        <h1><a href="http://www.fullstackoptimization.com/" target="_blank">Full Stack Optimization</a> Live Test</h1>
       </header>
       <h3>{disabled ? 'Run tests on' : 'Never run tests on'}</h3>
       <ul>
